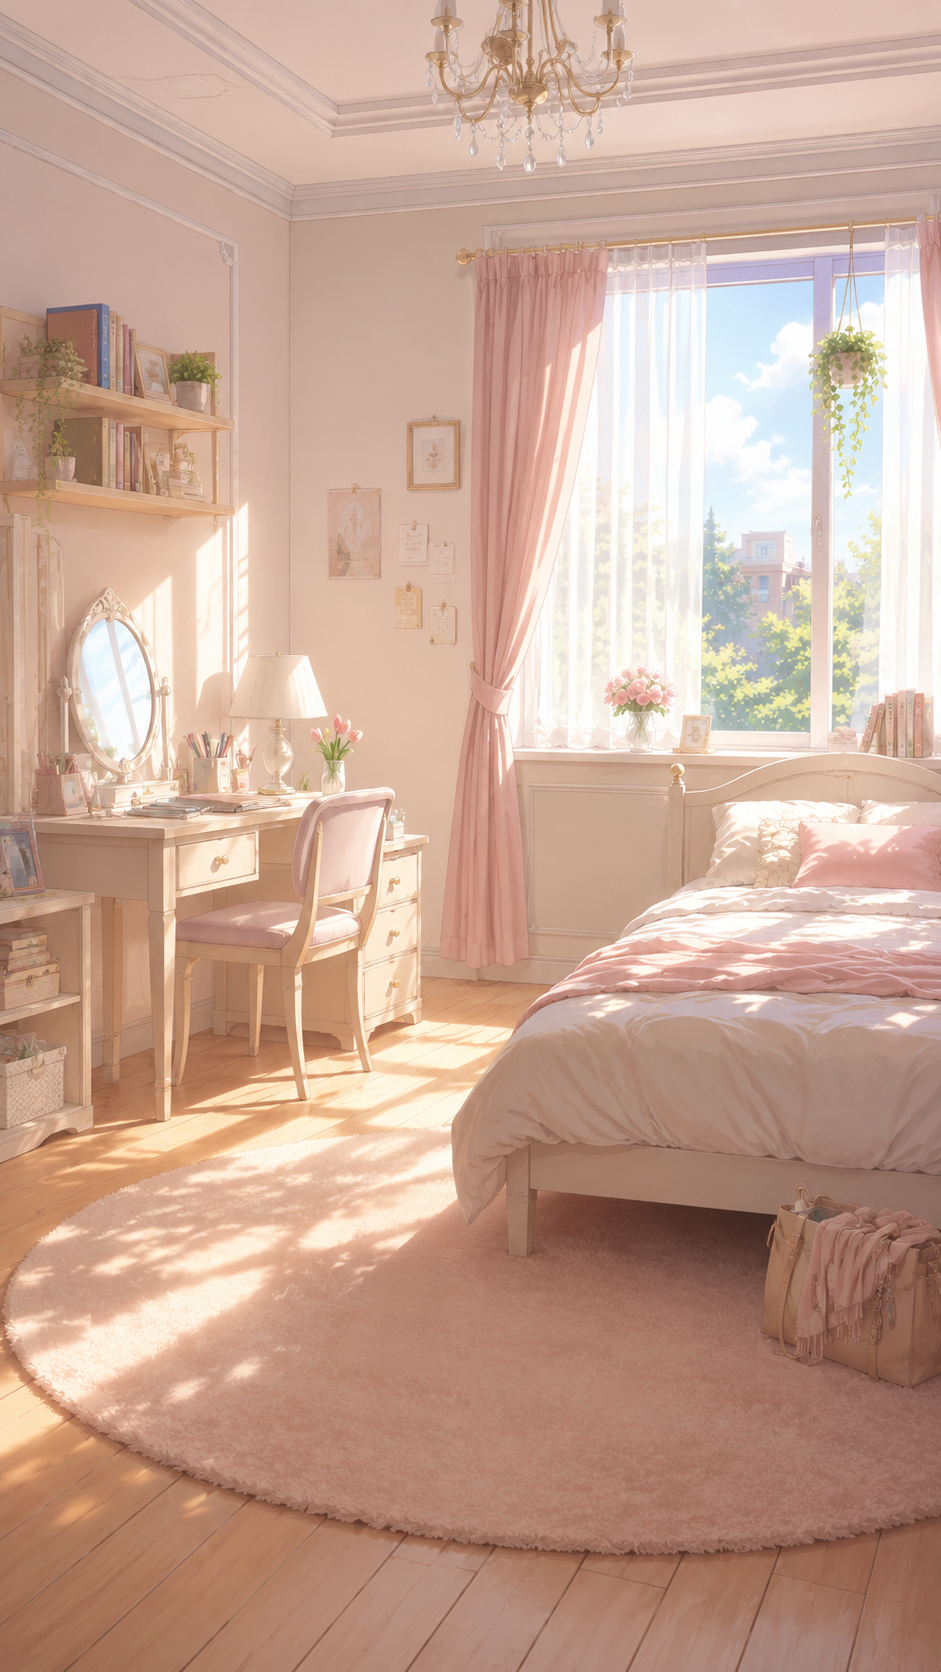
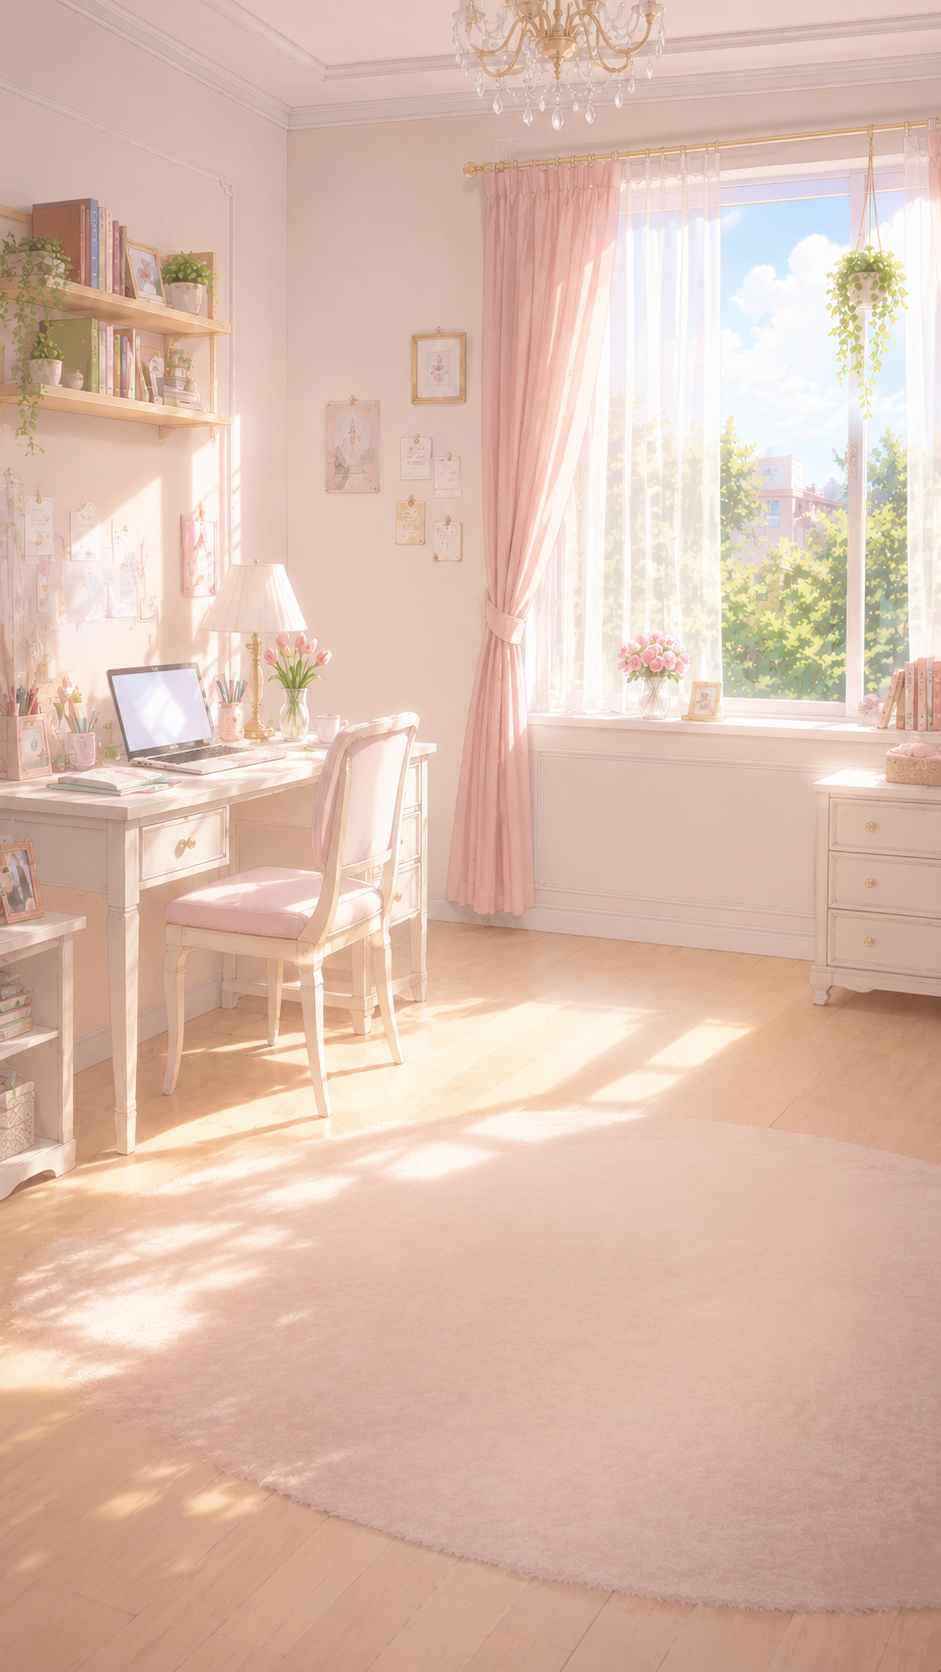
キャラクター絵の追加

diff --git a/js/scenario.js b/js/scenario.js
@@ -27,82 +27,99 @@ export const scenario = [
     id: "prologue-004",
     chapter: "PROLOGUE",
     speaker: "主人公",
-    text: "…………あ。"
+    text: "…………あ。",
+    background: "./assets/images/backgrounds/morning-room.png"
   },
   {
     id: "prologue-005",
     chapter: "PROLOGUE",
     speaker: "主人公",
-    text: "入学式、オンラインじゃん。"
+    text: "入学式、オンラインじゃん。",
+    background: "./assets/images/backgrounds/morning-room.png"
   },
   {
     id: "prologue-006",
     chapter: "PROLOGUE",
     speaker: "主人公",
-    text: "家、出なくていいじゃん……。\n朝から何やってんだ私。"
+    text: "家、出なくていいじゃん……。\n朝から何やってんだ私。",
+    background: "./assets/images/backgrounds/morning-room.png"
   },
 
   {
     id: "prologue-007",
     chapter: "PROLOGUE",
     speaker: "主人公",
-    text: "――そんなこんなで。\n今日から、私もZEN大学の学生！"
+    text: "――そんなこんなで。\n今日から、私もZEN大学の学生！",
+    background: "./assets/images/backgrounds/morning-room.png"
   },
   {
     id: "prologue-008",
     chapter: "PROLOGUE",
     speaker: "主人公",
-    text: "オンラインなら、好きな時間に授業も受けられるし……\n大学生活、けっこう自由なのかも！"
+    text: "オンラインなら、好きな時間に授業も受けられるし……\n大学生活、けっこう自由なのかも！",
+    background: "./assets/images/backgrounds/morning-room.png"
   },
 
   {
     id: "prologue-009",
     chapter: "PROLOGUE",
     speaker: "SYSTEM",
-    text: "♪ ピロン\n\n《履修登録について》"
+    text: "♪ ピロン\n\n《履修登録について》",
+    background: "./assets/images/backgrounds/morning-room.png",
+    foreground: "./assets/images/foregrounds/smartphone-hand01.png"
   },
   {
     id: "prologue-010",
     chapter: "PROLOGUE",
     speaker: "主人公",
-    text: "履修登録……？"
+    text: "履修登録……？",
+    background: "./assets/images/backgrounds/morning-room.png",
+    foreground: "./assets/images/foregrounds/smartphone-hand01.png"
   },
   {
     id: "prologue-011",
     chapter: "PROLOGUE",
     speaker: "主人公",
-    text: "そっか。\n大学って、高校みたいに時間割が決まってるわけじゃないんだ。"
+    text: "そっか。\n大学って、高校みたいに時間割が決まってるわけじゃないんだ。",
+    background: "./assets/images/backgrounds/morning-room.png"
   },
   {
     id: "prologue-012",
     chapter: "PROLOGUE",
     speaker: "主人公",
-    text: "自分で授業を選ぶのか〜！\nなんか楽しそう！"
+    text: "自分で授業を選ぶのか〜！\nなんか楽しそう！",
+    background: "./assets/images/backgrounds/morning-room.png"
   },
   {
     id: "prologue-013",
     chapter: "PROLOGUE",
     speaker: "主人公",
-    text: "心理学も気になるし、プログラミングもやってみたいし……\n漫画の授業もある！"
+    text: "心理学も気になるし、プログラミングもやってみたいし……\n漫画の授業もある！",
+    background: "./assets/images/backgrounds/morning-room.png"
   },
   {
     id: "prologue-014",
     chapter: "PROLOGUE",
     speaker: "主人公",
-    text: "よーし！\n面白そうなの、全部入れちゃお！"
+    text: "よーし！\n面白そうなの、全部入れちゃお！",
+    background: "./assets/images/backgrounds/morning-room.png"
   },
 
   {
     id: "prologue-015",
     chapter: "PROLOGUE",
     speaker: "？？？",
-    text: "――ちょっと待った。"
+    text: "――ちょっと待った。",
+    background: "./assets/images/backgrounds/morning-room.png",
+    character: "./assets/images/characters/rishu/silhouette.png"
   },
   {
     id: "prologue-016",
     chapter: "PROLOGUE",
     speaker: "主人公",
-    text: "……え？"
+    text: "……え？",
+    background: "./assets/images/backgrounds/morning-room.png",
+    character: "./assets/images/characters/rishu/silhouette.png"
   },
 
   {

diff --git a/js/main.js b/js/main.js
@@ -17,6 +17,9 @@ const backgroundPlaceholder = document.querySelector(".background-placeholder");
 const dialogueBox = document.querySelector(".dialogue-box");
 const choiceArea = document.getElementById("choice-area");
 
+const foregroundImage = document.getElementById("foreground-image");
+const characterImage = document.getElementById("character-image");
+
 let currentIndex = 0;
 
 function showScreen(screenName) {
@@ -41,7 +44,12 @@ function renderScenario() {
   }
 
   chapterName.textContent = scene.chapter;
-  speakerName.textContent = scene.speaker;
+  if (scene.speaker === "SYSTEM") {
+    speakerName.hidden = true;
+  } else {
+    speakerName.hidden = false;
+    speakerName.textContent = scene.speaker;
+  }
   dialogueText.textContent = scene.text;
 
   if (scene.background) {
@@ -53,6 +61,21 @@ function renderScenario() {
   } else {
     sceneElement.style.backgroundImage = "";
     backgroundPlaceholder.hidden = false;
+  }
+
+  if (scene.foreground) {
+    foregroundImage.src = scene.foreground;
+    foregroundImage.hidden = false;
+  } else {
+    foregroundImage.src = "";
+    foregroundImage.hidden = true;
+  }
+  if (scene.character) {
+    characterImage.src = scene.character;
+    characterImage.hidden = false;
+  } else {
+    characterImage.src = "";
+    characterImage.hidden = true;
   }
 }
 

diff --git a/css/style.css b/css/style.css
@@ -225,6 +225,45 @@ button { font: inherit; }
   font-size: 11px;
 }
 
+.foreground-image {
+  position: absolute;
+  z-index: 1;
+
+  left: 50%;
+  bottom: 145px;
+
+  width: 100%;
+  max-width: none;
+  max-height: none;
+
+  transform: translateX(-50%);
+  pointer-events: none;
+}
+
+.foreground-image[hidden] {
+  display: none;
+}
+
+.character-image {
+  position: absolute;
+  z-index: 1;
+
+  left: 50%;
+  bottom: 135px;
+
+  width: auto;
+  height: 72%;
+
+  transform: translateX(-50%);
+  object-fit: contain;
+
+  pointer-events: none;
+}
+
+.character-image[hidden] {
+  display: none;
+}
+
 .dialogue-box {
   position: relative;
   z-index: 2;
@@ -251,6 +290,10 @@ button { font: inherit; }
   font-size: 13px;
   font-weight: 700;
   background: linear-gradient(135deg, var(--color-main), #8165a4);
+}
+
+.speaker-name[hidden] {
+  display: none;
 }
 
 .dialogue-text {

diff --git a/index.html b/index.html
@@ -43,7 +43,20 @@
             <p>BACKGROUND</p>
             <span>背景画像はここに入ります</span>
           </div>
-
+            <img
+              id="foreground-image"
+              class="foreground-image"
+              src=""
+              alt=""
+              hidden
+            >
+            <img
+              id="character-image"
+              class="character-image"
+              src=""
+              alt=""
+              hidden
+            >
           <section class="dialogue-box" aria-label="会話">
             <div id="speaker-name" class="speaker-name">主人公</div>
             <p id="dialogue-text" class="dialogue-text">今日から、私も大学生！</p>
